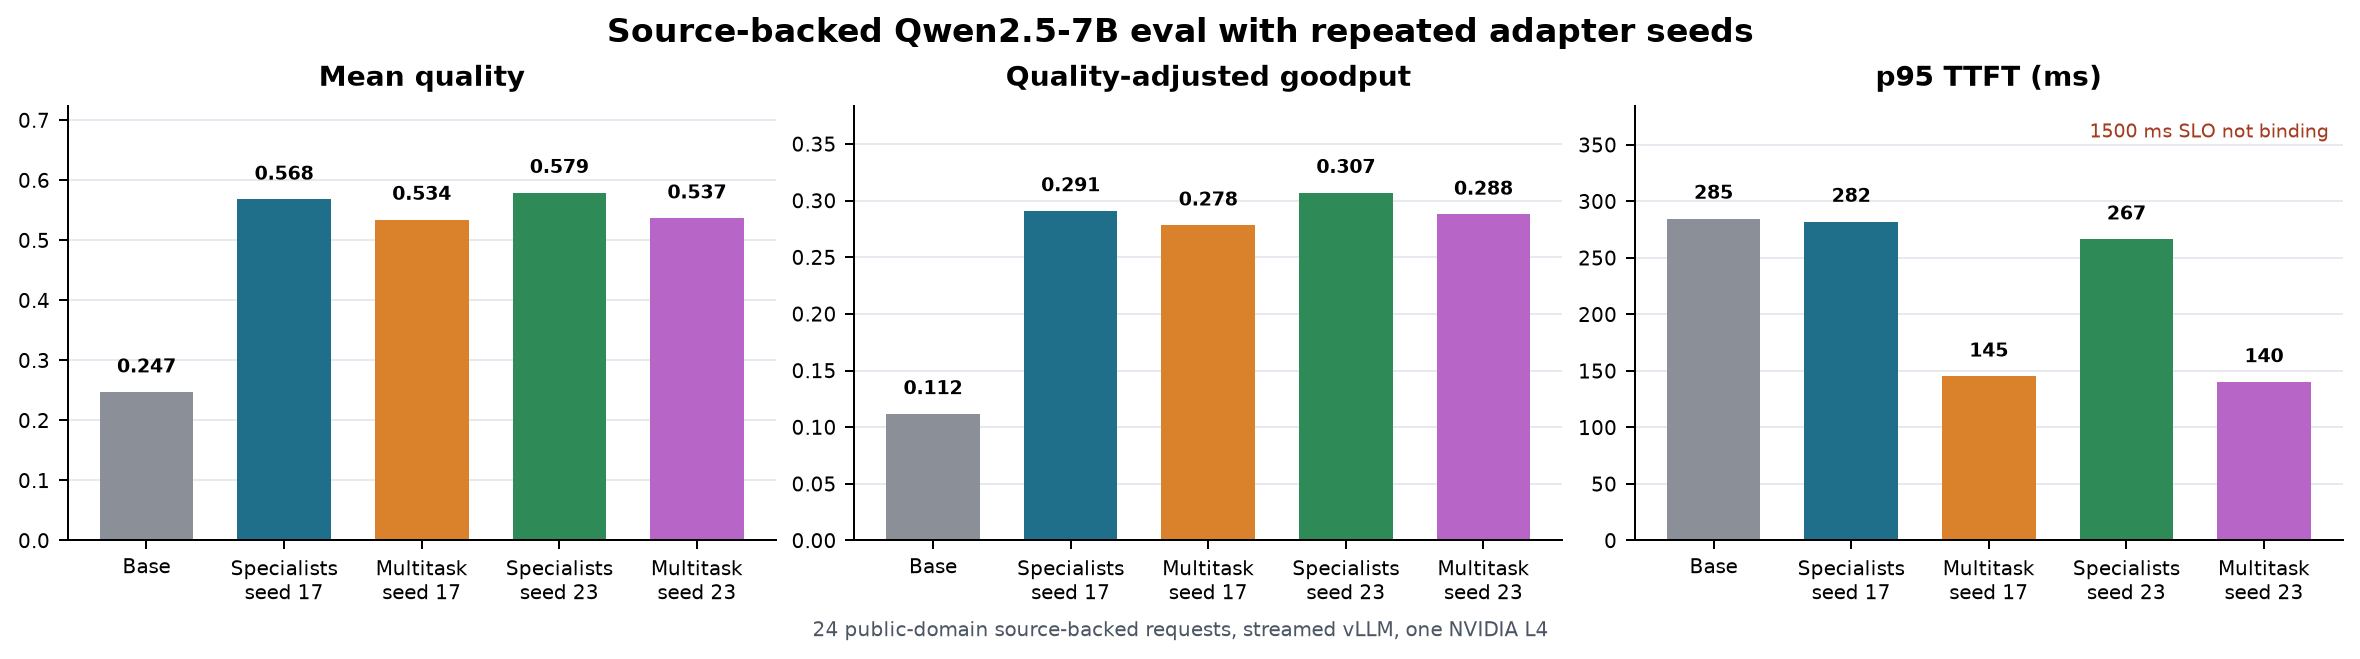
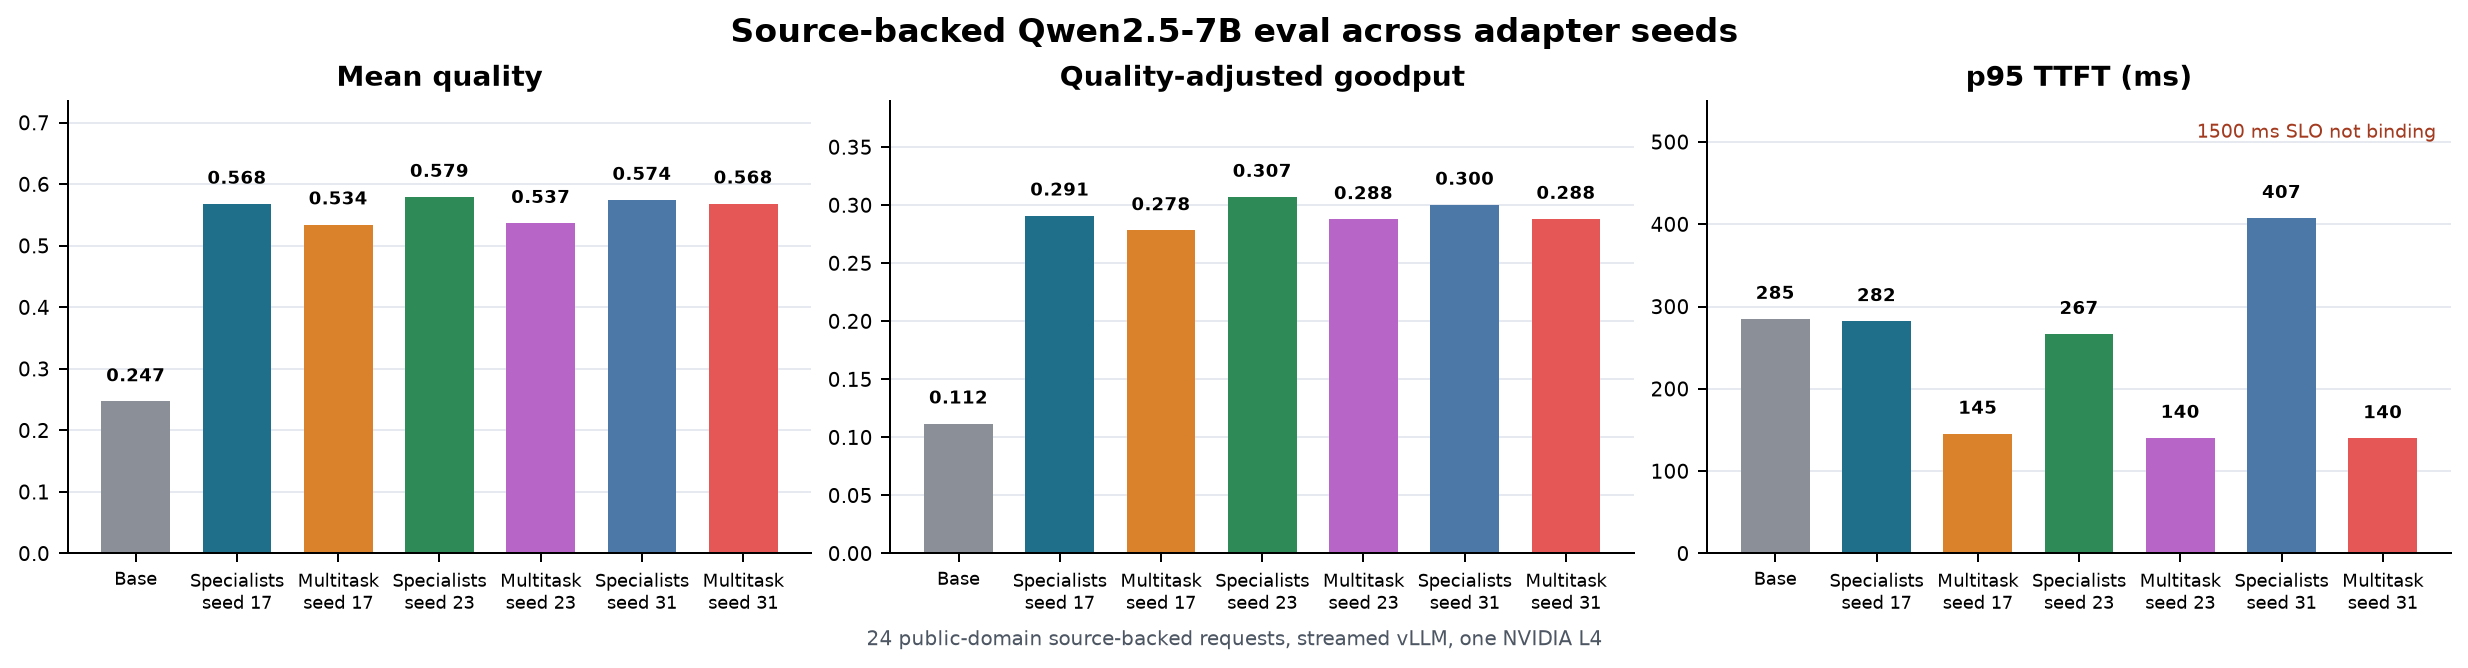
Document expanded Qwen 7B source evals

diff --git a/docs/large_model_results.md b/docs/large_model_results.md
@@ -98,13 +98,20 @@ Interpretation:
 
 ## Source-backed eval with repeated adapter seeds
 
-The next check moves off the generated held-out fixture and onto the
-source-backed `data/eval/source_eval.jsonl` bundle. This is a small 24-request
-public-domain eval, so it is not a full external benchmark, but it is useful as
-a first non-generated sanity check. It also adds a second Qwen2.5-7B training
-seed (`TRAIN_SEED=23`) for the specialist and multitask LoRA recipes.
+The next check moves off the generated held-out fixture and onto source-backed
+public-domain bundles:
 
-The seed-23 adapters were trained with the same short 4-bit LoRA protocol as
+- `data/eval/source_eval.jsonl`: 24 hand-authored public-domain source records;
+- `data/eval/source_eval_expanded.jsonl`: 240 records from 15 public-domain
+  source snippets, balanced across QA, JSON extraction, summarization, code
+  checks, and both prompt layouts.
+
+This is still not a full external benchmark, but it is a stronger
+non-generated sanity check. It also adds two more Qwen2.5-7B training seeds
+(`TRAIN_SEED=23` and `TRAIN_SEED=31`) for the specialist and multitask LoRA
+recipes.
+
+The additional adapters were trained with the same short 4-bit LoRA protocol as
 the first seed:
 
 - specialists: 40 steps each;
@@ -121,23 +128,61 @@ the first seed:
 | multitask LoRA, seed 17 | 24 | 136.4 | 145.2 | 177.1 | 4084.3 | 1.000 | 0.521 | 0.534 | 0.278 |
 | specialist LoRAs, seed 23 | 24 | 137.2 | 266.5 | 1099.9 | 4081.8 | 1.000 | 0.530 | 0.579 | 0.307 |
 | multitask LoRA, seed 23 | 24 | 135.5 | 140.3 | 176.3 | 4085.6 | 1.000 | 0.536 | 0.537 | 0.288 |
+| specialist LoRAs, seed 31 | 24 | 135.8 | 407.4 | 1128.1 | 4077.1 | 1.000 | 0.523 | 0.574 | 0.300 |
+| multitask LoRA, seed 31 | 24 | 135.9 | 139.9 | 182.0 | 4088.5 | 1.000 | 0.507 | 0.568 | 0.288 |
+
+![Expanded source-backed Qwen2.5-7B eval](figures/source_backed_qwen7b_expanded.png)
+
+| condition | requests | p50 TTFT ms | p95 TTFT ms | p99 TTFT ms | p95 E2E ms | SLO attainment | req/s | mean quality | QAG | server prefix hit rate |
+| --- | ---: | ---: | ---: | ---: | ---: | ---: | ---: | ---: | ---: | ---: |
+| base | 240 | 120.3 | 122.3 | 124.9 | 3685.2 | 1.000 | 0.521 | 0.329 | 0.171 | 0.550 |
+| specialist LoRAs | 240 | 135.8 | 141.2 | 145.8 | 2131.4 | 1.000 | 0.995 | 0.547 | 0.544 | 0.479 |
+| multitask LoRA | 240 | 135.5 | 140.0 | 186.5 | 2757.5 | 1.000 | 0.854 | 0.540 | 0.461 | 0.550 |
 
 Interpretation:
 
 - The source-backed eval confirms the direction of the generated held-out
-  result, but at a smaller effect size: specialists improve quality from
-  `0.247` to `0.568-0.579`, about `2.3x` over base.
-- Specialists beat multitask on both training seeds, but the margin is modest:
-  `0.568` vs `0.534` for seed 17 and `0.579` vs `0.537` for seed 23.
-- Quality-adjusted goodput also favors specialists on both seeds:
-  `0.291` and `0.307` versus multitask `0.278` and `0.288`.
-- TTFT is not the bottleneck in this small source-backed run. All conditions are
-  below the `1500 ms` TTFT SLO, and multitask has the lowest p95 TTFT.
-- Serving all ten 7B LoRA modules at once on a single L4 failed because vLLM
-  could not reserve KV-cache blocks at `max_model_len=4096`. The seed groups
-  were therefore served separately, five LoRAs at a time. That failure is
-  itself aligned with the repo thesis: adapter multiplicity consumes serving
-  headroom even before workload traffic arrives.
+  result, but at a smaller effect size: on the 24-row set, specialists improve
+  quality from `0.247` to `0.568-0.579`, about `2.3x` over base.
+- Specialists beat multitask on all three training seeds on quality and QAG.
+  The seed-31 quality margin is small (`0.574` vs `0.568`), which is the right
+  cautionary signal for a small eval.
+- The 240-row expanded source-backed run preserves the direction: specialists
+  reach `0.547` quality and `0.544` QAG versus base `0.329` / `0.171` and
+  multitask `0.540` / `0.461`.
+- TTFT is not the bottleneck in these source-backed runs. All conditions are
+  below the `1500 ms` TTFT SLO. The tradeoff is more visible in memory and
+  capacity than in p95 TTFT for this specific workload.
+- vLLM cache attribution remains run-level, not per request. The benchmark
+  records per-request simulated cached-token estimates, while vLLM exposes
+  server-level Prometheus counters such as `vllm:prefix_cache_hits_total` and
+  `vllm:prefix_cache_queries_total`. The expanded run shows server prefix hit
+  rates of `55.0%` for base/multitask and `47.9%` for specialists.
+
+## Adapter capacity on one L4
+
+The serving-capacity probe used the trained Qwen2.5-7B adapters on one
+`g2-standard-8` L4, `max_model_len=4096`, `gpu_memory_utilization=0.85`, and
+vLLM `0.23.0`.
+
+| registered LoRAs | contents | result |
+| ---: | --- | --- |
+| 5 | one specialist seed plus multitask | starts successfully |
+| 8 | two specialist seeds | fails before serving |
+| 10 | two specialist seeds plus two multitask adapters | fails before serving |
+
+The eight-LoRA failure reported:
+
+```text
+To serve at least one request with the model's max seq len (4096), 0.22 GiB KV cache is needed, which is larger than the available KV cache memory (0.09 GiB). Based on the available memory, the estimated maximum model length is 1664.
+```
+
+The ten-LoRA failure reported no available memory for cache blocks. This is a
+direct systems result: adding adapter registrations can consume enough serving
+headroom that the server cannot reserve KV cache for even one max-length
+request. The current GCP project has quota for one L4 GPU in `asia-south1` and
+zero A100 quota, so a larger-GPU confirmation needs a quota increase before it
+can be run.
 
 ## Five-seed isolated confidence sweep
 
@@ -197,7 +242,7 @@ Notes:
   `shared_prefix_fraction`. The controlled-overlap rows above are the relevant
   large-model cache/SLO evidence.
 - The concurrent trained-adapter run above addresses the serving-load part of
-  the next-step evidence. The source-backed run adds the first repeated
-  trained-adapter seed and non-generated eval check. Remaining gaps are a larger
-  external eval set, more training seeds, and publication of the exact adapter
-  checkpoints or a deterministic retraining script.
+  the next-step evidence. The source-backed runs add a larger non-generated
+  eval fixture and three trained-adapter seeds. Remaining gaps are an
+  independently curated external eval, larger-GPU confirmation of the adapter
+  capacity frontier, and publication of adapter checkpoints.

diff --git a/README.md b/README.md
@@ -34,9 +34,10 @@ Selected plots are committed in [docs/figures](docs/figures/).
 The latest 7B evidence is in
 [docs/large_model_results.md](docs/large_model_results.md): trained
 Qwen2.5-7B specialist LoRAs beat the base model and multitask LoRA on generated
-held-out eval, moderate concurrent vLLM load, and a small source-backed
-public-domain eval with two adapter training seeds. The source-backed run is
-intentionally reported as a sanity check, not a full external benchmark.
+held-out eval, moderate concurrent vLLM load, a 240-row source-backed
+public-domain eval, and a three-seed adapter check. The same run found a hard
+serving limit on one L4: five 7B LoRAs fit at 4096 context, while eight and ten
+registered LoRAs failed because vLLM could not reserve enough KV cache.
 
 ![Specialization is a quality/cache/SLO tradeoff](docs/figures/whitepaper_specialization_cache_tradeoff.png)
 
@@ -116,7 +117,9 @@ Use JSONL eval configs when you need task records with ground truth:
 ```bash
 make validate-eval-large
 make validate-source-eval
+make validate-source-eval-expanded
 make source-eval
+make source-eval-expanded
 uv run python -m adapter_cache_bench.bench.run_workload \
   --config configs/benchmark/public_domain_eval_large.yaml
 ```
@@ -128,6 +131,7 @@ outputs:
 make vllm-source-eval
 make vllm-source-eval-lora-qwen
 make vllm-heldout-xlarge-lora-trained-qwen7b
+make vllm-source-eval-expanded-lora-trained-qwen7b
 uv run python -m adapter_cache_bench.bench.run_concurrent \
   --config configs/benchmark/heldout_xlarge_sft_eval_vllm_lora_trained_qwen15b_concurrent.yaml
 ```
@@ -191,6 +195,7 @@ requirements.
 | --- | --- |
 | [docs/real_eval_results.md](docs/real_eval_results.md) | Real vLLM run results and interpretation. |
 | [docs/large_model_results.md](docs/large_model_results.md) | Real 7B vLLM cache/SLO and trained-adapter results. |
+| [docs/trained_adapters.md](docs/trained_adapters.md) | Reproducible LoRA training and evaluation commands. |
 | [docs/vllm.md](docs/vllm.md) | vLLM/OpenAI-compatible serving flow. |
 | [docs/external_eval.md](docs/external_eval.md) | How to plug in stronger external evals. |
 | [docs/research_plan.md](docs/research_plan.md) | Next research steps and acceptance criteria. |
@@ -204,7 +209,7 @@ requirements.
 
 ```text
 configs/                         benchmark, router, cache, and workload YAMLs
-data/eval/                       small public-domain-style JSONL fixtures
+data/eval/                       public-domain/source-backed JSONL fixtures
 docs/                            runbooks, results, and public figures
 src/adapter_cache_bench/cache/   whitespace tokenizer and prefix-cache simulators
 src/adapter_cache_bench/routing/ router policies

diff --git a/docs/trained_adapters.md b/docs/trained_adapters.md
@@ -56,7 +56,7 @@ MAX_LENGTH=768 \
 ./scripts/train_qwen15b_task_adapters.sh
 ```
 
-Train an alternate 7B seed for repeated-adapter checks:
+Train alternate 7B seeds for repeated-adapter checks:
 
 ```bash
 BASE_MODEL=Qwen/Qwen2.5-7B-Instruct \
@@ -64,6 +64,19 @@ SFT_DIR=artifacts/sft/public_domain_xlarge \
 OUTPUT_DIR=/home/shiva/adapters \
 OUTPUT_PREFIX=qwen7b-seed23 \
 TRAIN_SEED=23 \
+LOAD_IN_4BIT=1 \
+MAX_STEPS=40 \
+MULTITASK_MAX_STEPS=80 \
+MAX_LENGTH=768 \
+./scripts/train_qwen15b_task_adapters.sh
+```
+
+```bash
+BASE_MODEL=Qwen/Qwen2.5-7B-Instruct \
+SFT_DIR=artifacts/sft/public_domain_xlarge \
+OUTPUT_DIR=/home/shiva/adapters \
+OUTPUT_PREFIX=qwen7b-seed31 \
+TRAIN_SEED=31 \
 LOAD_IN_4BIT=1 \
 MAX_STEPS=40 \
 MULTITASK_MAX_STEPS=80 \
@@ -119,7 +132,17 @@ make vllm-source-eval-lora-trained-qwen7b
 make vllm-source-eval-lora-multitask-qwen7b
 make vllm-source-eval-lora-trained-qwen7b-seed23
 make vllm-source-eval-lora-multitask-qwen7b-seed23
+make vllm-source-eval-lora-trained-qwen7b-seed31
+make vllm-source-eval-lora-multitask-qwen7b-seed31
+make vllm-source-eval-expanded-qwen7b
+make vllm-source-eval-expanded-lora-trained-qwen7b
+make vllm-source-eval-expanded-lora-multitask-qwen7b
 ```
+
+On one L4 at `max_model_len=4096`, serve one five-adapter seed group at a time.
+The measured vLLM capacity probe started successfully with five LoRAs, but
+failed with eight and ten registered LoRAs because there was not enough KV-cache
+memory left for one max-length request.
 
 The result supports the full hypothesis only if the trained specialist adapters
 improve quality enough to offset their cache and latency footprint relative to

diff --git a/docs/eval_datasets.md b/docs/eval_datasets.md
@@ -58,6 +58,9 @@ Included datasets:
 
 - `data/eval/source_eval.jsonl`: 24 source-backed public-domain records across
   QA, JSON extraction, summarization, and code-style parser checks.
+- `data/eval/source_eval_expanded.jsonl`: 240 source-backed public-domain
+  records from 15 snippets, balanced across four tasks, two prompt layouts, and
+  repeated shared-prefix groups. Validate with `make validate-source-eval-expanded`.
 - `data/eval/public_domain_eval.jsonl`: five-record smoke fixture.
 - `data/eval/public_domain_eval_large.jsonl`: generated 100-record cache/routing
   fixture, useful for repeated systems experiments but not a research claim.
